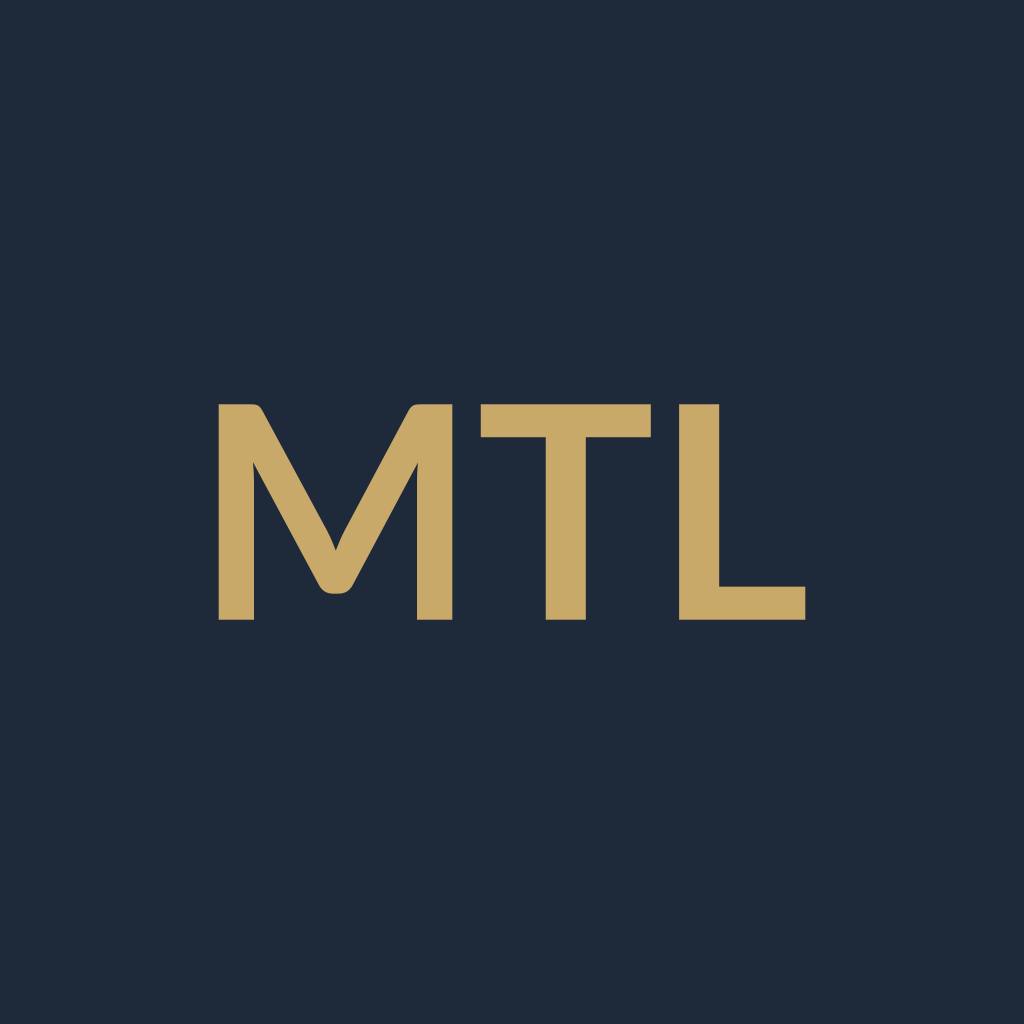
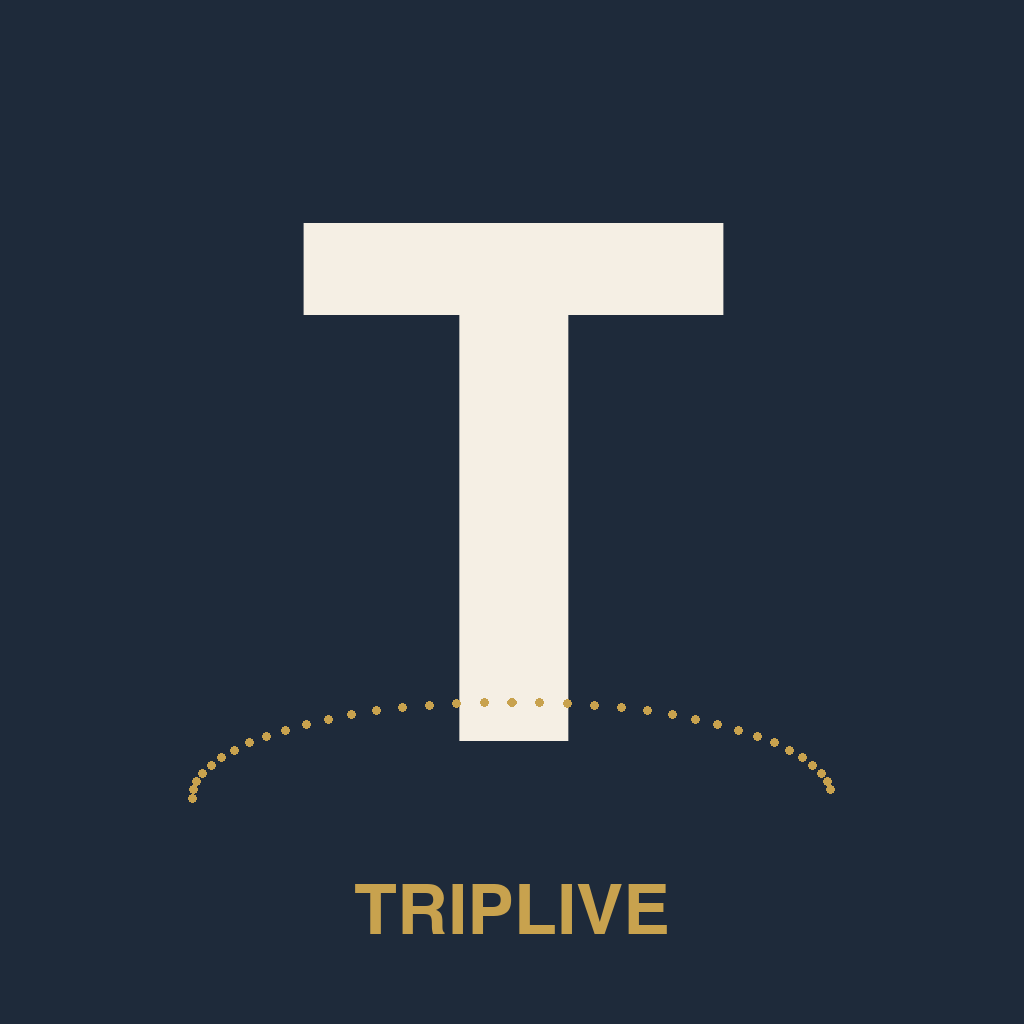
feat(my-trip-log): 앱 이름 Spagenio → Triplive 리브랜딩
- 앱 이름 (app.json name): Spagenio → Triplive
- iOS Bundle ID / Android package: com.spagenio.mytriplog → com.triplive.app
- URL scheme: mytriplog → triplive
- 사용자 노출 화면 (welcome, privacy, terms, onboarding) 브랜드명 교체
- PDF 회고 푸터, 백업 파일명, 피드백 메일 제목 교체
- 앱 아이콘 + 스플래시 + 적응형 아이콘 신규 디자인 (다크 네이비 + 크림 T)
- iOS infoPlist 출시 보강 (buildNumber, ITSAppUsesNonExemptEncryption)
- eas.json submit 프로필에 Apple 계정 자리 마련

회사 브랜드는 Spagenio (DBA), 앱 브랜드는 Triplive 구조.

diff --git a/my-trip-log/app/settings/terms.tsx b/my-trip-log/app/settings/terms.tsx
@@ -24,11 +24,11 @@ export default function TermsScreen() {
         <Text style={styles.lastUpdated}>시행일: 2026년 4월 24일</Text>
 
         <Section title="제 1조 (목적)" styles={styles}>
-          {`본 약관은 Spagenio 앱(이하 "앱")을 이용하는 사용자와 개발자 간의 권리, 의무, 책임 및 서비스 이용 조건을 규정함을 목적으로 합니다.`}
+          {`본 약관은 Triplive 앱(이하 "앱")을 이용하는 사용자와 개발자 간의 권리, 의무, 책임 및 서비스 이용 조건을 규정함을 목적으로 합니다.`}
         </Section>
 
         <Section title="제 2조 (용어의 정의)" styles={styles}>
-          {`1. "앱"이란 Spagenio라는 이름으로 제공되는 모바일 애플리케이션을 말합니다.
+          {`1. "앱"이란 Triplive라는 이름으로 제공되는 모바일 애플리케이션을 말합니다.
 2. "사용자"란 본 앱을 설치하고 이용하는 자를 말합니다.
 3. "개발자"란 본 앱을 개발·운영하는 개인(이태호)을 말합니다.
 4. "콘텐츠"란 사용자가 앱에 입력하거나 생성한 여행 기록, 사진, 비용 정보, 체크리스트 등을 말합니다.`}
@@ -71,7 +71,7 @@ export default function TermsScreen() {
 • 광고 수익은 앱 운영·서버 비용 충당에 사용됩니다.
 • iOS 14.5 이상 사용자는 추적 권한 동의 시 맞춤 광고가 표시되며, 거부 시 일반 광고가 표시됩니다 (앱 사용에 제한 없음).
 • 광고 추적은 iOS 설정 > 개인정보 보호 > 추적, Android 설정 > Google > 광고에서 언제든 변경 가능합니다.
-• 향후 출시 예정인 Spagenio PRO 결제 시 광고 없이 사용 가능합니다.`}
+• 향후 출시 예정인 Triplive PRO 결제 시 광고 없이 사용 가능합니다.`}
         </Section>
 
         <Section title="제 7조 (사용자의 의무)" styles={styles}>

diff --git a/my-trip-log/src/components/AdBanner.tsx b/my-trip-log/src/components/AdBanner.tsx
@@ -1,5 +1,5 @@
 /**
- * 광고 배너 컴포넌트 (Spagenio)
+ * 광고 배너 컴포넌트 (Triplive)
  *
  * 위치: 탭바 바로 위 (모든 탭 화면에서 동일)
  * 높이: 60pt (AdMob ANCHORED_ADAPTIVE_BANNER 사이즈와 유사)
@@ -26,6 +26,8 @@ import { ADS_ENABLED, AD_UNIT_IDS } from '@/config/ads';
 import { isProActive } from '@/utils/proStatus';
 
 // Conditional import — 패키지가 없어도 앱이 크래시 안 나게
+// ⚠ ADS_ENABLED 가 false (= __DEV__) 면 require 자체를 시도하지 않음
+//    → Expo Go 에서도 안전 (RNGoogleMobileAdsModule TurboModule lookup 회피)
 let BannerAd: any = null;
 let BannerAdSize: any = null;
 let TestIds: any = null;
@@ -34,11 +36,11 @@ if (ADS_ENABLED) {
     // 광고 SDK는 EAS dev/prod 빌드에만 포함 — Expo Go에서는 미설치라 require로 옵셔널 로드
     // eslint-disable-next-line @typescript-eslint/no-require-imports
     const GMA = require('react-native-google-mobile-ads');
-    BannerAd = GMA.BannerAd;
-    BannerAdSize = GMA.BannerAdSize;
-    TestIds = GMA.TestIds;
-  } catch {
-    console.warn('[AdBanner] react-native-google-mobile-ads 없음, 플레이스홀더 fallback');
+    BannerAd = GMA?.BannerAd ?? null;
+    BannerAdSize = GMA?.BannerAdSize ?? null;
+    TestIds = GMA?.TestIds ?? null;
+  } catch (e) {
+    console.warn('[AdBanner] react-native-google-mobile-ads 없음, 플레이스홀더 fallback', e);
   }
 }
 
@@ -83,7 +85,7 @@ export function AdBanner({ onPress }: Props) {
     <View style={styles.container}>
       <View style={styles.content}>
         <View style={{ flex: 1 }}>
-          <Text style={styles.title}>✨ Spagenio PRO 곧 출시!</Text>
+          <Text style={styles.title}>✨ Triplive PRO 곧 출시!</Text>
           <Text style={styles.sub}>광고 없이 깔끔하게 여행 기록하기</Text>
         </View>
         <View style={styles.badge}>

diff --git a/my-trip-log/app/settings/privacy.tsx b/my-trip-log/app/settings/privacy.tsx
@@ -24,7 +24,7 @@ export default function PrivacyScreen() {
         <Text style={styles.lastUpdated}>시행일: 2026년 4월 24일</Text>
 
         <Text style={styles.intro}>
-          Spagenio는 사용자의 개인정보를 소중히 여기며, 서비스 제공에 필요한 최소한의 정보만 수집합니다.
+          Triplive는 사용자의 개인정보를 소중히 여기며, 서비스 제공에 필요한 최소한의 정보만 수집합니다.
           모든 여행 데이터는 기본적으로 사용자 기기에만 저장되며, 외부로 전송되지 않습니다.
         </Text>
 
@@ -38,7 +38,7 @@ export default function PrivacyScreen() {
 
 [iCloud / Google Drive 자동 백업]
 • 사용자의 기기 설정에 따라 위 데이터가 OS 기본 백업에 포함될 수 있습니다.
-• Spagenio는 별도의 백업 서버를 운영하지 않습니다.
+• Triplive는 별도의 백업 서버를 운영하지 않습니다.
 
 [선택적 익명 통계 (동의 시에만)]
 • 익명 UUID (개인 식별 불가)
@@ -85,7 +85,7 @@ export default function PrivacyScreen() {
   - iOS: 설정 > 개인정보 보호 > 추적
   - Android: 설정 > Google > 광고 > 광고 ID 재설정 / 맞춤 광고 사용 안 함
 • Google 개인정보 처리방침: https://policies.google.com/privacy
-• Spagenio PRO 결제 시 광고가 표시되지 않습니다 (출시 예정).
+• Triplive PRO 결제 시 광고가 표시되지 않습니다 (출시 예정).
 
 [도시 이미지]
 • 탐색 화면의 도시 대표 사진은 Wikipedia REST API를 통해 위키미디어 커먼즈에서 제공받습니다.

diff --git a/my-trip-log/app/(onboarding)/welcome.tsx b/my-trip-log/app/(onboarding)/welcome.tsx
@@ -23,8 +23,8 @@ export default function WelcomeScreen() {
     <SafeAreaView style={styles.container} edges={['top', 'bottom']}>
       <View style={styles.hero}>
         <Text style={styles.eyebrow}>TRAVEL JOURNAL</Text>
-        <Text style={styles.brand}>Spagenio</Text>
-        <Text style={styles.productName}>My Trip Log</Text>
+        <Text style={styles.brand}>Triplive</Text>
+        <Text style={styles.productName}>여행 기록</Text>
         <View style={styles.divider} />
         <Text style={styles.subtitle}>
           모든 여행은{'\n'}한 권의 책이 됩니다
@@ -69,16 +69,16 @@ const styles = StyleSheet.create({
     letterSpacing: Typography.letterSpacingExtraWide,
     marginBottom: Spacing.lg,
   },
-  // Spagenio - 큰 브랜드명 (타이틀 포지션)
+  // Triplive - 큰 브랜드명 (타이틀 포지션)
   brand: {
     fontFamily: Fonts.display,             // Playfair Display Bold
-    fontSize: Typography.displayLarge + 12, // 48 (기존 My Trip Log 44보다 살짝 큼)
+    fontSize: Typography.displayLarge + 12, // 48
     color: Colors.textPrimary,
     letterSpacing: Typography.letterSpacingTight,
     marginBottom: Spacing.xs,
     textAlign: 'center',
   },
-  // My Trip Log - 작은 서브타이틀
+  // 여행 기록 - 작은 서브타이틀
   productName: {
     fontFamily: Fonts.bodyEnMedium,        // Inter Medium
     fontSize: Typography.titleMedium,      // 18

diff --git a/my-trip-log/app/(onboarding)/terms.tsx b/my-trip-log/app/(onboarding)/terms.tsx
@@ -70,7 +70,7 @@ export default function TermsScreen() {
         <Text style={styles.eyebrow}>STEP 02 / 02</Text>
         <Text style={styles.title}>약관에{'\n'}동의해주세요</Text>
         <Text style={styles.subtitle}>
-          My Trip Log 사용을 위해 아래 약관을 확인해주세요
+          Triplive 사용을 위해 아래 약관을 확인해주세요
         </Text>
 
         <Pressable
@@ -96,7 +96,7 @@ export default function TermsScreen() {
             </Text>
           </Pressable>
           <Text style={styles.termBody}>
-            본 약관은 My Trip Log 앱의 사용 방법을 안내합니다.
+            본 약관은 Triplive 앱의 사용 방법을 안내합니다.
             앱은 사용자의 여행 정보를 기기 로컬 저장소에만 보관하며,
             동의한 경우에만 익명 통계가 외부로 전송됩니다.
           </Text>
@@ -187,7 +187,7 @@ export default function TermsScreen() {
             </Text>
           </Pressable>
           <Text style={styles.termBody}>
-            추후 spagenio 여행 SNS가 출시되면 알림을 받습니다.{'\n'}
+            추후 Triplive 여행 SNS가 출시되면 알림을 받습니다.{'\n'}
             기존 여행 기록을 SNS로 전환할 수 있는 기능이 제공될 예정입니다.{'\n'}
             언제든지 설정에서 변경할 수 있습니다.
           </Text>

diff --git a/my-trip-log/src/config/ads.ts b/my-trip-log/src/config/ads.ts
@@ -1,5 +1,5 @@
 /**
- * AdMob 광고 설정 (Spagenio)
+ * AdMob 광고 설정 (Triplive)
  *
  * ## 출시 단계 — 현재 ⚠ 테스트 ID 사용 중
  *
@@ -22,7 +22,12 @@
  */
 
 // ⚠ 출시 전 false → true 였음. 광고 활성화됨.
-export const ADS_ENABLED = true;
+//
+// __DEV__=true (Expo Go 또는 dev 빌드)에서는 강제로 false:
+//   - Expo Go 는 네이티브 모듈 미포함 → require 시 RNGoogleMobileAdsModule not found 크래시
+//   - 개발 중엔 광고가 필요 없으니 자동으로 플레이스홀더만 표시
+// production 빌드 (eas build --profile production) 에서만 실광고 노출
+export const ADS_ENABLED = !__DEV__;
 
 // 실광고 단위 ID — AdMob 콘솔에서 발급받은 값으로 교체
 // 현재 값은 Google 공식 테스트 ID (실광고 미노출)

diff --git a/my-trip-log/src/utils/backup.ts b/my-trip-log/src/utils/backup.ts
@@ -45,7 +45,7 @@ export async function exportData(): Promise<{ ok: boolean; message: string }> {
 
     const json = JSON.stringify(data, null, 2);
     const timestamp = new Date().toISOString().slice(0, 10);
-    const filename = `mytriplog-backup-${timestamp}.json`;
+    const filename = `triplive-backup-${timestamp}.json`;
     const fileUri = FileSystem.cacheDirectory + filename;
 
     await FileSystem.writeAsStringAsync(fileUri, json);
@@ -54,7 +54,7 @@ export async function exportData(): Promise<{ ok: boolean; message: string }> {
     if (canShare) {
       await Sharing.shareAsync(fileUri, {
         mimeType: 'application/json',
-        dialogTitle: 'My Trip Log 백업',
+        dialogTitle: 'Triplive 백업',
       });
     }
 

diff --git a/my-trip-log/src/components/DisclaimerContent.tsx b/my-trip-log/src/components/DisclaimerContent.tsx
@@ -16,7 +16,7 @@ export function DisclaimerContent() {
       <Text style={styles.lastUpdated}>시행일: 2026년 4월 28일</Text>
 
       <Text style={styles.intro}>
-        Spagenio · My Trip Log(이하 &ldquo;앱&rdquo;)을 사용하기 전에 아래 내용을 반드시 확인해 주세요.
+        Triplive(이하 &ldquo;앱&rdquo;)을 사용하기 전에 아래 내용을 반드시 확인해 주세요.
         본 앱은 개인이 운영하는 무료 도구로, 서비스 사용에 따른 책임 한계를 명확히 하기 위해 면책 조항을 둡니다.
       </Text>
 

diff --git a/my-trip-log/app/settings/backup.tsx b/my-trip-log/app/settings/backup.tsx
@@ -82,7 +82,7 @@ export default function BackupScreen() {
   const cloudName = Platform.OS === 'ios' ? 'iCloud' : 'Google Drive';
   const settingsHint =
     Platform.OS === 'ios'
-      ? 'iPhone 설정 → 본인 이름 → iCloud → iCloud Drive 켜기 → 앱 목록에서 Spagenio 켜기'
+      ? 'iPhone 설정 → 본인 이름 → iCloud → iCloud Drive 켜기 → 앱 목록에서 Triplive 켜기'
       : 'Android 설정 → 시스템 → 백업 → Google One으로 백업 켜기';
 
   return (

diff --git a/my-trip-log/src/utils/feedback.ts b/my-trip-log/src/utils/feedback.ts
@@ -8,7 +8,7 @@ const FEEDBACK_EMAIL = 'roundhouse04@gmail.com';
 
 export async function openFeedbackMail(): Promise<void> {
   const appVersion = Constants.expoConfig?.version ?? '1.0.0';
-  const subject = encodeURIComponent('[My Trip Log] 피드백');
+  const subject = encodeURIComponent('[Triplive] 피드백');
   const body = encodeURIComponent(
     `\n\n` +
     `─────────\n` +

diff --git a/my-trip-log/src/utils/globalFont.ts b/my-trip-log/src/utils/globalFont.ts
@@ -13,7 +13,7 @@
  *   <Text style={{ fontWeight: '500' }}>미디엄</Text> → NotoSansKR Medium
  *
  *   영문 잡지 제목은 명시적으로:
- *   <Text style={{ fontFamily: Fonts.display }}>My Trip Log</Text>
+ *   <Text style={{ fontFamily: Fonts.display }}>Triplive</Text>
  */
 import { Text, TextInput } from 'react-native';
 import { Fonts } from '@/theme/theme';

diff --git a/my-trip-log/src/utils/serverStats.ts b/my-trip-log/src/utils/serverStats.ts
@@ -3,7 +3,7 @@
  *
  * 컨셉:
  * - 모든 데이터는 로컬 SQLite에 보관
- * - 사용자가 동의한 경우에만 익명 통계를 spagenio 서버에 전송
+ * - 사용자가 동의한 경우에만 익명 통계를 통계 서버에 전송
  * - 네트워크 오류는 조용히 무시 (다음 실행 시 재시도)
  */
 import * as Application from 'expo-constants';
